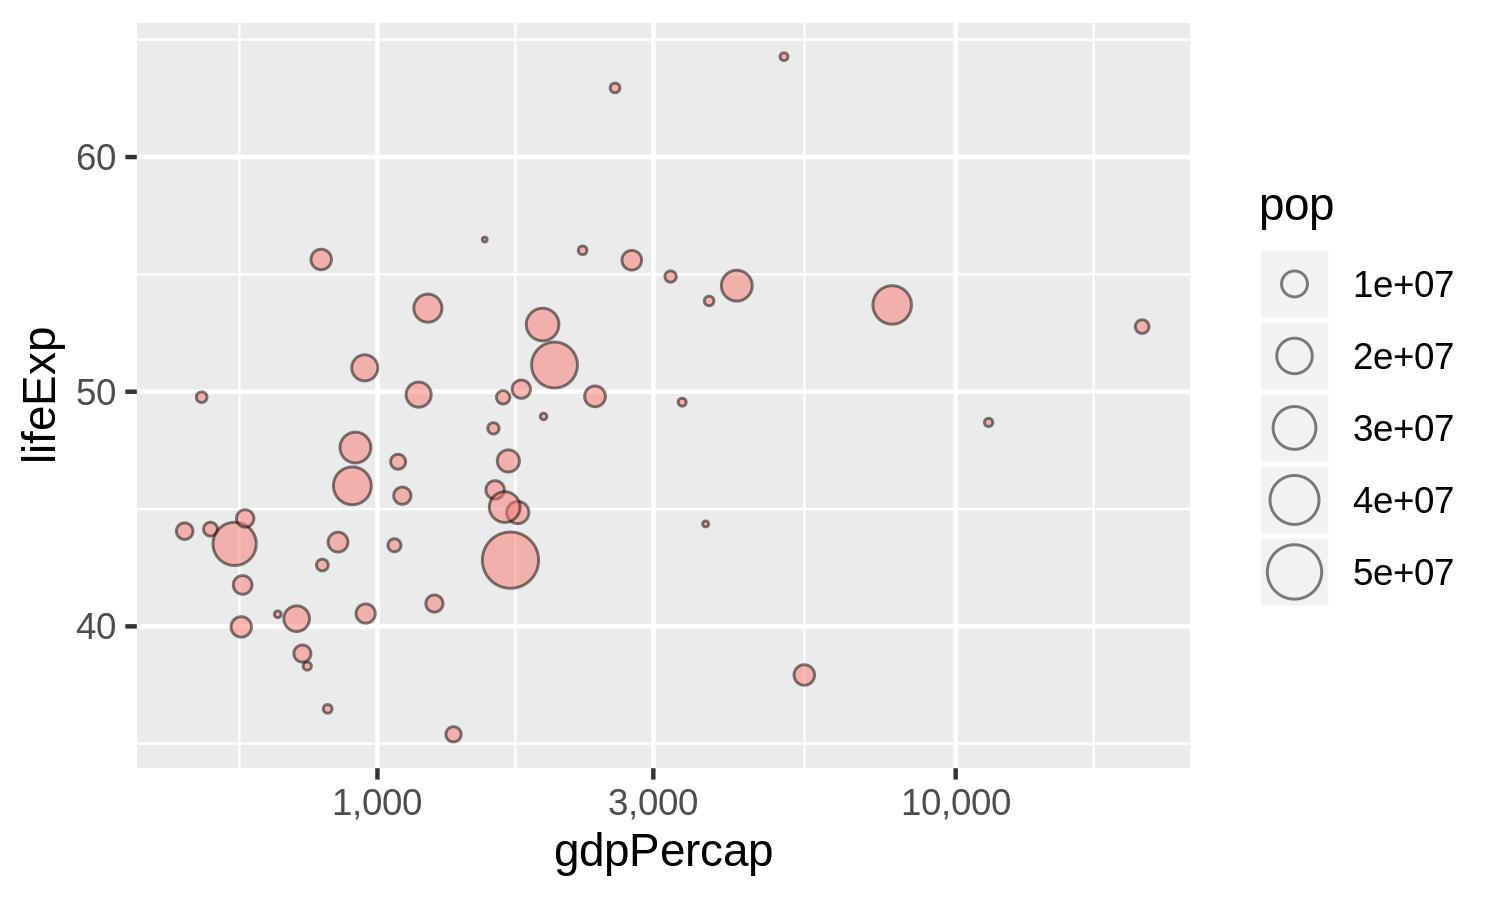
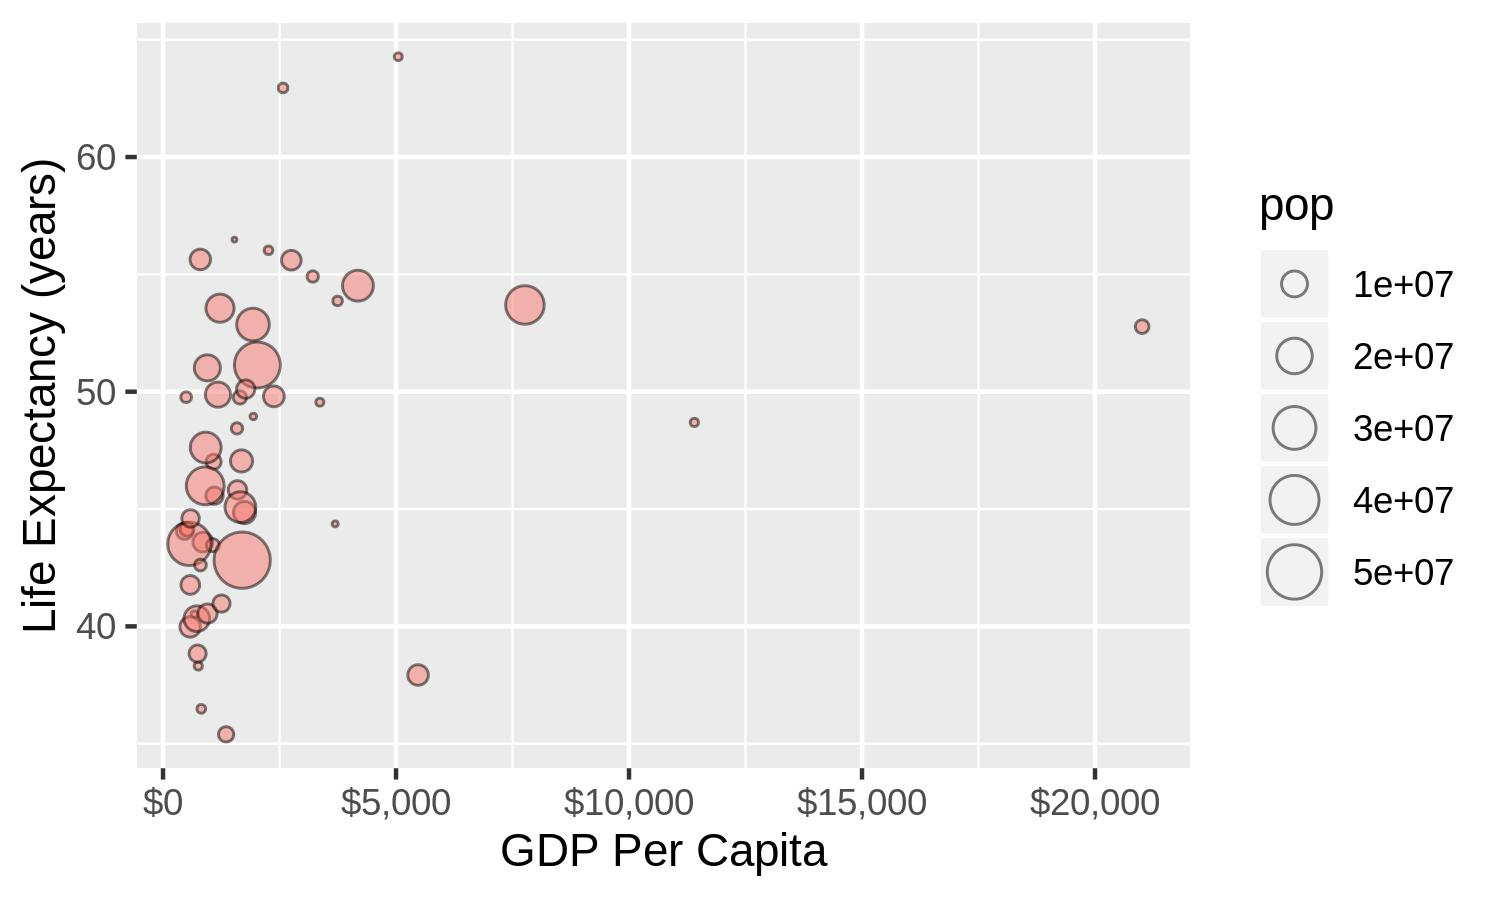
update axis labels

diff --git a/hw05/hw05.md b/hw05/hw05.md
@@ -137,9 +137,12 @@ gapminder %>%
   summarize(mean_lifeExp = mean(lifeExp)) %>% 
   ggplot(aes(x = year, y = mean_lifeExp, color = continent)) +
   geom_smooth(se = F) +
-  theme(panel.grid.major = element_blank(), panel.grid.minor = element_blank(),
-        panel.background = element_blank(), axis.line = element_line(colour = "black"),
-        legend.title = element_blank(), axis.title.x=element_blank(), 
+  theme(panel.grid.major = element_blank(), # removing grid lines
+        panel.grid.minor = element_blank(),
+        panel.background = element_blank(), 
+        axis.line = element_line(colour = "black"),
+        legend.title = element_blank(), 
+        axis.title.x=element_blank(), 
         axis.title.y=element_blank()) +
   ggtitle("Global Life Expectancy Trends from 1952")
 ```
@@ -162,7 +165,10 @@ p <- gapminder %>%
   geom_point(alpha = 0.5, shape = 21) +
   scale_x_log10(labels = scales::comma_format()) +
   scale_size_area() +
-  guides(fill = FALSE)
+  guides(fill = FALSE) +
+  xlab("GDP Per Capita") +
+  ylab("Life Expectancy (years)") +
+  scale_x_continuous(labels = scales::dollar_format())
 ggsave(here("hw05", "gapminder_plot_ggsave.jpg"), p)
 plot(p)
 ```
